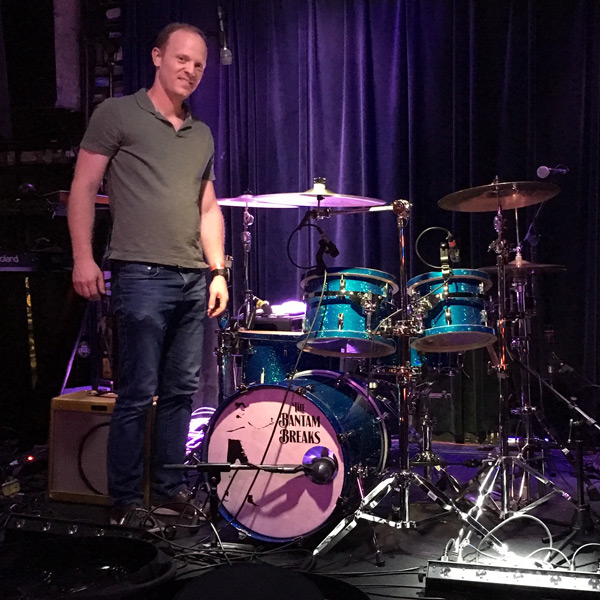
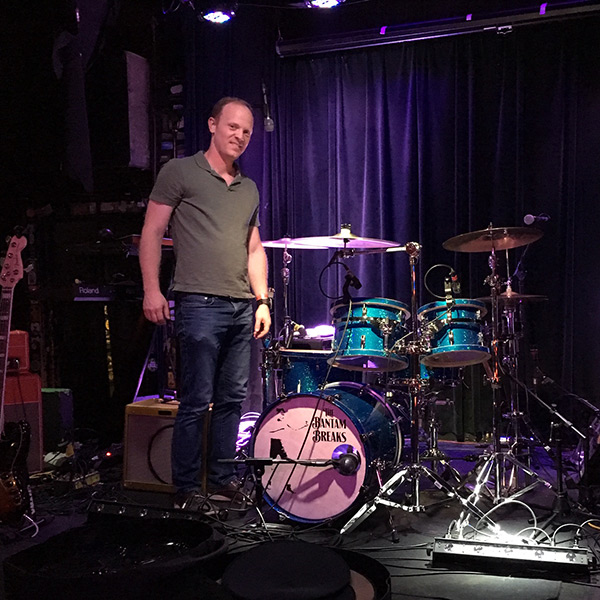
Add Band Member Section

diff --git a/src/shared/react/components/BandGrid/BandMember.js b/src/shared/react/components/BandGrid/BandMember.js
@@ -1,0 +1,79 @@
+import PropTypes from 'prop-types';
+import React, { Component } from 'react';
+import styled from 'styled-components';
+import { BREAKPOINTS, Center } from '../Atoms';
+
+const BOX_SHADOW = '1px 1px 3px rgba(0,0,0,0.75)';
+const IMG_SIDE = '15vw';
+
+const BandMemberWrap = styled.div`
+    position: relative;
+    width: ${IMG_SIDE};
+    height: ${IMG_SIDE};
+    display: flex;
+`;
+
+const BandMemberImg = styled.img`
+    display: block;
+    margin: auto 0;
+    width: ${IMG_SIDE};
+    max-height: ${IMG_SIDE};
+    box-shadow: ${BOX_SHADOW};
+    border-radius: 50%;
+`;
+
+const GridBox = styled.div`
+    position: relative;
+    margin: 5vw;
+    max-width: ${IMG_SIDE};
+
+    @media (max-width: ${BREAKPOINTS.MOBILE}) {
+        margin: 2.5vw;
+    }
+`;
+
+const MemberName = styled.h4`
+    margin: 1rem 0 .25rem;
+    font-size: 1.25rem;
+`;
+
+const MemberInstruments = styled.p`
+    margin: 0;
+    font-size: .8rem;
+`;
+
+class BandMember extends Component {
+    render () {
+        const {
+            className,
+            imgUrl,
+            name,
+            instruments
+        } = this.props;
+
+        return (
+            <GridBox>
+                <BandMemberWrap>
+                    <BandMemberImg
+                        alt={name}
+                        className={className}
+                        src={imgUrl}
+                    />
+                </BandMemberWrap>
+
+                <Center>
+                    <MemberName>{name}</MemberName>
+                    <MemberInstruments>{instruments.join(' • ')}</MemberInstruments>
+                </Center>
+            </GridBox>
+        );
+    }
+}
+
+BandMember.propTypes = {
+    imgUrl: PropTypes.string.isRequired,
+    name: PropTypes.string.isRequired,
+    instruments: PropTypes.arrayOf(PropTypes.string).isRequired
+};
+
+export default BandMember;

diff --git a/src/server/controllers/band-members.js b/src/server/controllers/band-members.js
@@ -1,0 +1,51 @@
+import { getRandom } from './util';
+
+const BAND_IMAGE_DIR = 'img/band/';
+
+const BAND_ERIC_IMAGES = [
+    'eric_bw_mic_600.jpg',
+    'eric_chips_600.jpg',
+    'eric_madlife_1_600.jpg',
+    'eric_red_600.jpg'
+];
+
+const BAND_GARRETT_IMAGES = [
+    'garret_madlife_1_600.jpg',
+    'garrett_bw_madlife_600.jpg',
+    'garrett_rick_600.jpg'
+];
+
+const BAND_JOSH_IMAGES = [
+    'josh_madlife_1_600.jpg',
+    'josh_madlife_2_600.jpg',
+    'josh_orange_glasses_600.jpg'
+];
+
+const BAND_SCOTLAND_IMAGES = [
+    'scotland_madlife_1_600.jpg',
+    'scotland_madlife_2_600.jpg',
+    'scotland_noble_smiths_600.jpg'
+];
+
+export const bandMembers = () => ({
+    eric: {
+        name: 'Eric Morton',
+        instruments: ['Guitar', 'Vocals'],
+        imgUrl: `${BAND_IMAGE_DIR}${getRandom(BAND_ERIC_IMAGES)}`
+    },
+    garrett: {
+        name: 'Michael Garrett',
+        instruments: ['Bass'],
+        imgUrl: `${BAND_IMAGE_DIR}${getRandom(BAND_GARRETT_IMAGES)}`
+    },
+    josh: {
+        name: 'Joshua Broughton',
+        instruments: ['Guitar', 'Vocals'],
+        imgUrl: `${BAND_IMAGE_DIR}${getRandom(BAND_JOSH_IMAGES)}`
+    },
+    scotland: {
+        name: 'Scotland Stephenson',
+        instruments: ['Drums', 'Backing Vocals'],
+        imgUrl: `${BAND_IMAGE_DIR}${getRandom(BAND_SCOTLAND_IMAGES)}`
+    }
+});

diff --git a/src/server/controllers/app-images.js b/src/server/controllers/app-images.js
@@ -1,3 +1,5 @@
+import { getRandom } from './util';
+
 const LOGO_DIR = 'img/';
 
 const LOGOS = {
@@ -18,42 +20,7 @@ const HERO_IMAGES = [
     'smiths_gear_wide_1920_1080.jpg'
 ];
 
-const BAND_IMAGE_DIR = 'img/band/';
-
-const BAND_ERIC_IMAGES = [
-    'eric_bw_mic_600.jpg',
-    'eric_chips_600.jpg',
-    'eric_madlife_1_600.jpg',
-    'eric_red_600.jpg'
-];
-
-const BAND_GARRETT_IMAGES = [
-    'garret_madlife_1_600.jpg',
-    'garrett_bw_madlife_600.jpg',
-    'garrett_rick_600.jpg'
-];
-
-const BAND_JOSH_IMAGES = [
-    'josh_madlife_1_600.jpg',
-    'josh_madlife_2_600.jpg',
-    'josh_orange_glasses_600.jpg'
-];
-
-const BAND_SCOTLAND_IMAGES = [
-    'scotland_madlife_1_600.jpg',
-    'scotland_madlife_2_600.jpg',
-    'scotland_noble_smiths_600.jpg'
-];
-
-const getRandom = (arr) => arr[Math.floor(Math.random() * arr.length)];
-
 export const appImages = () => ({
-    band: {
-        eric: `${BAND_IMAGE_DIR}${getRandom(BAND_ERIC_IMAGES)}`,
-        garrett: `${BAND_IMAGE_DIR}${getRandom(BAND_GARRETT_IMAGES)}`,
-        josh: `${BAND_IMAGE_DIR}${getRandom(BAND_JOSH_IMAGES)}`,
-        scotland: `${BAND_IMAGE_DIR}${getRandom(BAND_SCOTLAND_IMAGES)}`
-    },
     hero: `${HERO_DIR}${getRandom(HERO_IMAGES)}`,
     logo: {
         clear_chicken: `${LOGO_DIR}${LOGOS.clear_chicken}`,

diff --git a/src/shared/react/components/NavBar/NavBar.js b/src/shared/react/components/NavBar/NavBar.js
@@ -22,6 +22,15 @@ const Nav = styled.nav`
     z-index: 3;
 `;
 
+const NavAnchor = styled.a`
+    display: inline-block;
+    margin: 0 .5rem;
+    height: 100%;
+    vertical-align: center;
+    font-size: 1.15rem;
+    font-weight: 500;
+`;
+
 const NavLogo = styled(Logo)`
     float: left;
     margin-right: 1rem;
@@ -68,8 +77,10 @@ class NavBar extends Component {
         const { fixed, height } = this.state;
         return (
             <Nav fixed={fixed} clientHeight={height} ref={this.navRef}>
-                <a href='/'><NavLogo width="8vw" /></a>
-                <a href={'#photos'}>Photos</a>
+                <NavAnchor href='/'><NavLogo width="8vw" /></NavAnchor>
+                <NavAnchor href={'#albums'}>Albums</NavAnchor>
+                <NavAnchor href={'#photos'}>Photos</NavAnchor>
+                <NavAnchor href={'#the_band'}>The Band</NavAnchor>
             </Nav>
         );
     }

diff --git a/src/shared/react/components/BandGrid/BandGrid.js b/src/shared/react/components/BandGrid/BandGrid.js
@@ -1,0 +1,28 @@
+import React from 'react';
+import { useAppDataContext } from '../../context/';
+import { CenteredDiv, FlexRowGrid, ScrollTo, SectionHeading } from '../Atoms';
+import BandMember from './BandMember';
+
+export const BandGrid = (props) => {
+    const { bandMembers = {} } = useAppDataContext() || {};
+
+    const losHombres = Object.values(bandMembers).map((bandMember, index) => {
+        return (
+            <BandMember key={`band_member_${index}`}
+                {...bandMember}
+            />
+        );
+    });
+
+    return (
+        <section>
+          <CenteredDiv>
+              <ScrollTo id={'the_band'}>{' '}</ScrollTo>
+              <SectionHeading>The Band</SectionHeading>
+          </CenteredDiv>
+          <FlexRowGrid>
+              {losHombres}
+          </FlexRowGrid>
+        </section>
+    );
+};

diff --git a/src/server/controllers/web.js b/src/server/controllers/web.js
@@ -6,6 +6,7 @@ import { App, Layout } from '../../shared/react';
 import { show as showEntity } from '../../rethinkdb';
 import { instagram } from './instagram';
 import { albums } from './albums';
+import { bandMembers } from './band-members';
 import { appImages } from './app-images';
 
 const getStyleTags = (children) => {
@@ -39,6 +40,7 @@ export const web = {
         const appData = {
             albums: albums(),
             appImages: appImages(),
+            bandMembers: bandMembers(),
             instagramData: await instagram.feed(),
             showData: await showEntity.findUpcoming()
         };

diff --git a/src/shared/react/components/Home.js b/src/shared/react/components/Home.js
@@ -7,7 +7,7 @@ import { Footer } from './Footer';
 import { InstaGrid } from './InstaGrid';
 import { NavBar } from './NavBar';
 import ShowTable from './ShowTable';
-import TheBand from './TheBand';
+import { BandGrid } from './BandGrid';
 import VideoSection from './VideoSection';
 
 class Home extends Component {
@@ -42,7 +42,7 @@ class Home extends Component {
                 <ShowTable />
                 <InstaGrid />
                 <VideoSection />
-                <TheBand />
+                <BandGrid />
                 <ContactForm />
                 <Footer />
             </AppDataProvider>

diff --git a/src/shared/react/components/App.js b/src/shared/react/components/App.js
@@ -2,17 +2,12 @@ import React, { Component } from 'react';
 import { Route, Switch } from 'react-router-dom';
 import Home from './Home';
 import NoMatch from './NoMatch';
-import TheBand from './TheBand';
 
 const routes = [
     {
         path: '/',
         exact: true,
         component: Home
-    },
-    {
-        path: '/band',
-        component: TheBand
     }
 ]
 

diff --git a/src/shared/react/components/index.js b/src/shared/react/components/index.js
@@ -5,5 +5,4 @@ export { default as Layout } from './Layout';
 export { default as NavBar } from './NoMatch';
 export { default as NoMatch } from './NoMatch';
 export { default as ShowTable } from './ShowTable';
-export { default as TheBand } from './TheBand';
 export { default as VideoSection } from './VideoSection';

diff --git a/src/shared/react/components/Atoms/constants.js b/src/shared/react/components/Atoms/constants.js
@@ -5,7 +5,7 @@ export const COLORS = {
     LINKS: {
         ACTIVE: '#000',
         A: PRIMARY_LINK,
-        VISITED: '#66CCCC'
+        VISITED: '#F07171'
     },
     ACTIONS: {
         PRIMARY: PRIMARY_LINK

diff --git a/src/shared/react/components/AlbumGrid/Album.js b/src/shared/react/components/AlbumGrid/Album.js
@@ -36,7 +36,7 @@ const AlbumTitle = styled.h4`
 `;
 
 const AlbumYear = styled.p`
-    margin: 0
+    margin: 0;
 `;
 
 const FlexRowGridAlbums = styled(FlexRowGrid)`

diff --git a/src/server/controllers/util/get-random.js b/src/server/controllers/util/get-random.js
@@ -1,0 +1,1 @@
+export const getRandom = (arr) => arr[Math.floor(Math.random() * arr.length)];
